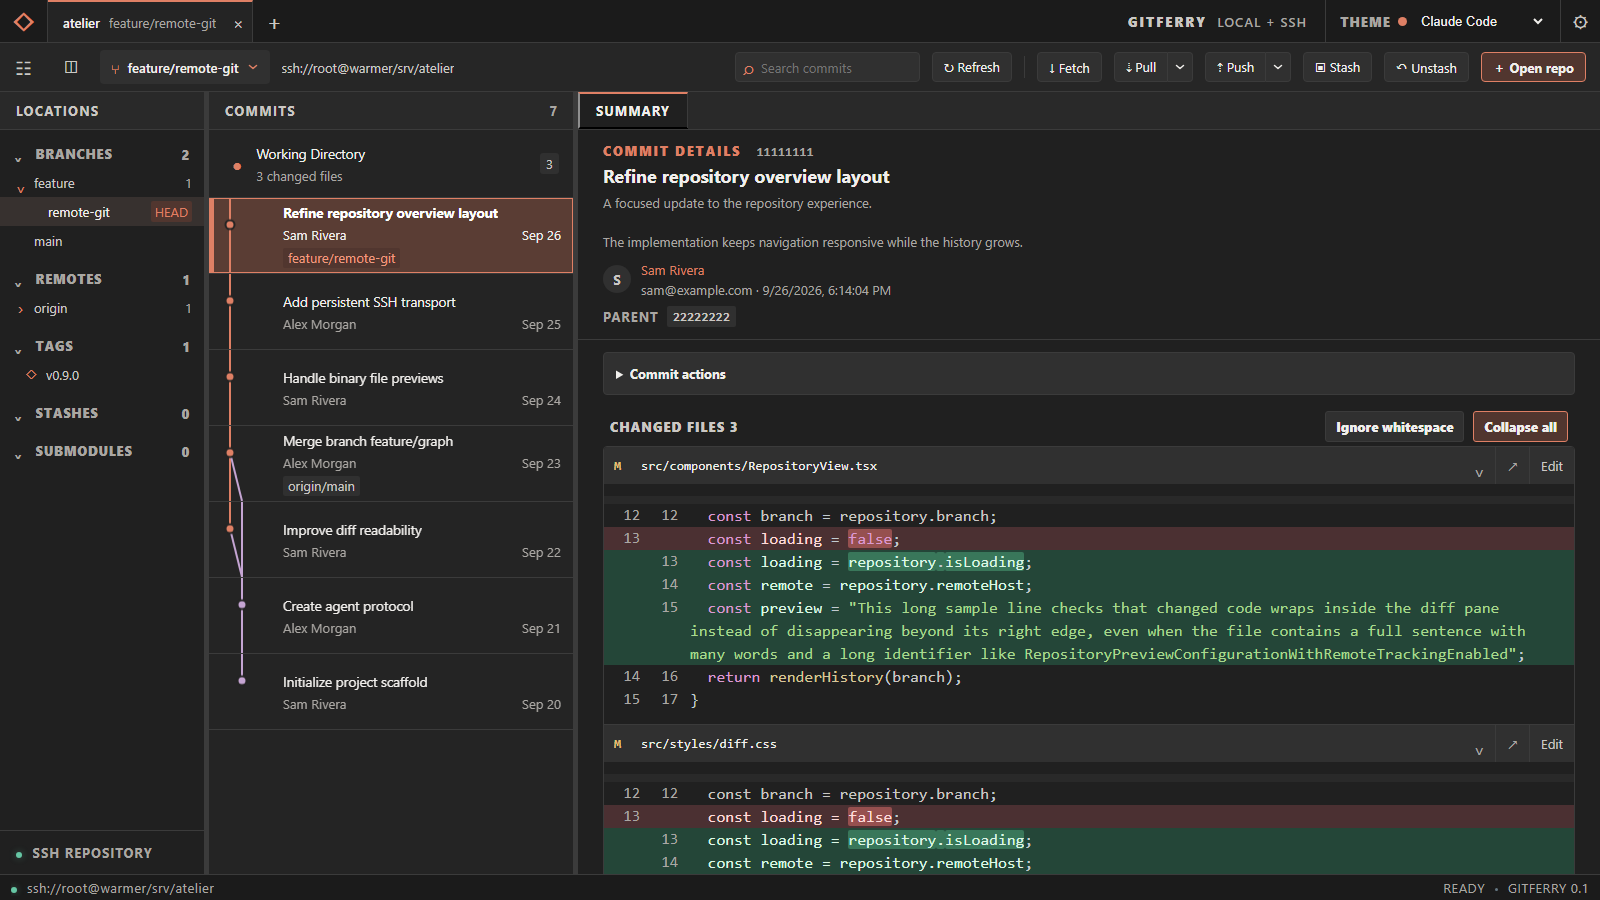
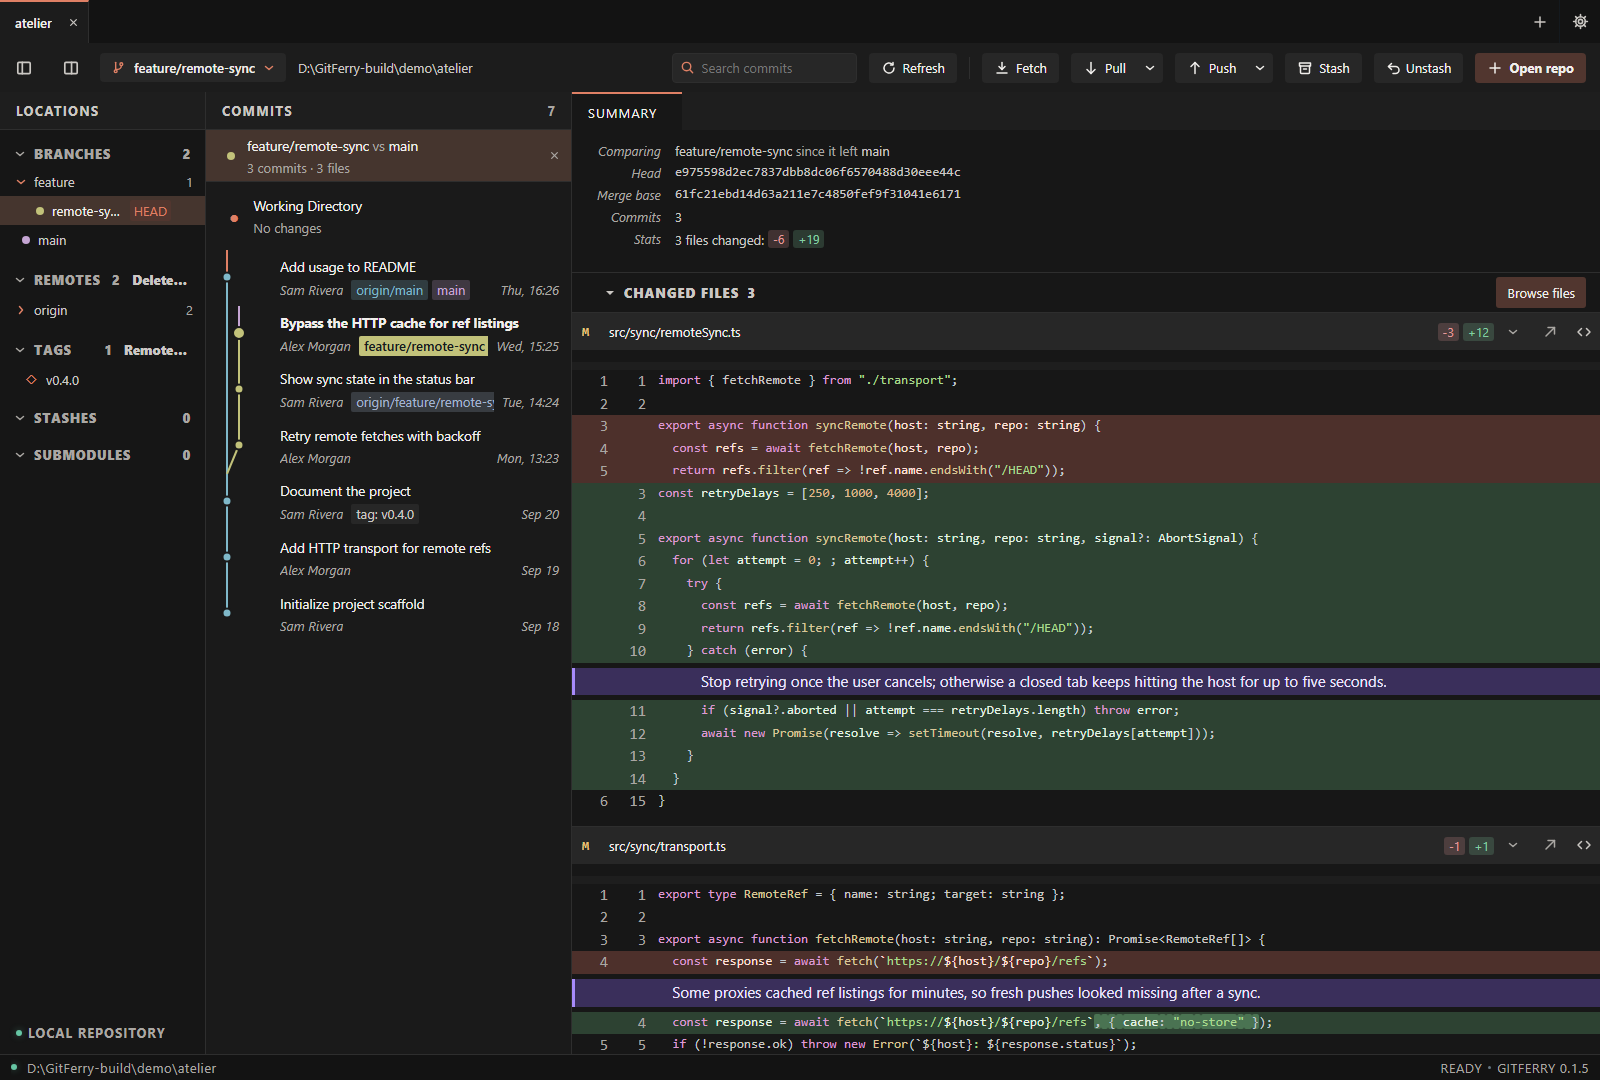
Describe AI change notes in the README and refresh the screenshot

diff --git a/README.md b/README.md
@@ -1,10 +1,12 @@
 # GitFerry
 
-GitFerry is a desktop Git client for local working trees and Git repositories on SSH hosts. It uses Tauri 2, SolidJS, and a small Rust agent that runs Git beside the repository.
+GitFerry is a desktop Git client inspired by Sublime Merge. It adds features such as comparing a branch's changes with master, working with repositories on remote hosts over SSH, and AI commentary on changes.
 
-![GitFerry showing its commit graph, branch sidebar, and inline diff in the Claude Code theme](docs/images/gitferry-preview.png)
+It works with local working trees and Git repositories on SSH hosts, and uses Tauri 2, SolidJS, and a small Rust agent that runs Git beside the repository.
 
-*GitFerry with a demo repository, shown in the Claude Code theme.*
+![GitFerry comparing a feature branch with main, with AI change notes above the code they explain, in the Claude Code theme](docs/images/gitferry-preview.png)
+
+*A feature branch compared with main; the purple rows are AI change notes. Demo repository, Claude Code theme.*
 
 ## Run locally
 
@@ -33,6 +35,24 @@ Open a local folder, or enter an SSH host and absolute repository path in the Op
 - Larger repository labels and a saved theme picker in the top bar: Antigravity Dark, VS Code Dark, Sublime Merge, and Claude Code.
 - Filesystem change watching with a slower polling fallback where watching is unavailable; full refresh on focus or Ctrl+R. Ctrl+O opens a repository.
 - Live fetch/pull/push progress and cancellation. SSH tabs use separate read, action, watch, and cancel sessions.
+- Compare a branch with main (or master, develop, trunk) from its branch menu: the commits and combined diff since it left the base branch. The comparison follows both branches as they move.
+- AI change notes shown above the diff lines they explain (see below).
+
+## AI change notes
+
+AI coding agents can explain why they changed something, and GitFerry shows each explanation directly above the code it describes in working-tree, staged, and branch-comparison diffs.
+
+Notes live in `.gitferry/notes.jsonl` at the repository root, one JSON object per line:
+
+```json
+{"id":"retry-abort","file":"src/sync/remoteSync.ts","quote":"if (signal?.aborted || attempt === retryDelays.length) throw error;","note":"Stop retrying once the user cancels; otherwise a closed tab keeps hitting the host."}
+```
+
+- `quote` is verbatim code from one line of the change, so a note follows its code when lines shift. An added line wins over a deleted one, which wins over context. Notes whose quote is no longer in the diff are hidden.
+- A later line with the same `id` replaces the note; `{"id":"...","deleted":true}` removes it.
+- GitFerry rereads the file every few seconds while focused. Keep `.gitferry/` out of commits, for example in `.git/info/exclude` or your global Git ignore file.
+
+The agent writes notes only when asked. [docs/skills/change-notes/SKILL.md](docs/skills/change-notes/SKILL.md) is the prompt used with Claude Code: copy it to `~/.claude/skills/change-notes/SKILL.md` and run `/change-notes` after a task. For Codex, copy it to `~/.codex/skills/change-notes/SKILL.md` and invoke `$change-notes`.
 
 ## Build and test
 

diff --git a/docs/skills/change-notes/SKILL.md b/docs/skills/change-notes/SKILL.md
@@ -1,0 +1,23 @@
+---
+name: change-notes
+description: Write GitFerry change notes (.gitferry/notes.jsonl) explaining important code changes. Use ONLY when the user explicitly invokes /change-notes or asks for change notes.
+disable-model-invocation: true
+---
+
+Explain the important changes of this task in `.gitferry/notes.jsonl` at the repo root (create it if missing). The GitFerry app shows each note next to the diff hunk it describes. Never put these notes in source files.
+
+Write a note ONLY where a reviewer would likely ask "why?":
+- behavior change, or a bug fix's root cause
+- non-obvious design decision or tradeoff
+- workaround, or handling of ordering/race/edge cases
+- security or data-integrity implication
+- code that looks wrong or unnecessary but is intentional
+
+Do NOT note: renames, formatting, imports, types, simple refactors, tests, obvious code, or anything the code already makes clear. Many changes need no note; a typical task gets 0–3. When unsure, skip.
+
+Format: append one JSON object per line. Never edit or rewrite existing lines:
+{"id":"<short-kebab-slug>","file":"<repo-relative path, forward slashes>","quote":"<distinctive code copied verbatim from ONE line of the new code>","note":"<why, not what; 1 sentence, max 25 words>"}
+
+- quote: part of a single line you added or changed, unique in the file (never `}`, `return;`, `throw error;`). For a pure deletion, quote a deleted line.
+- Write notes after the code is final, so quotes match the finished code.
+- Before editing a file, grep the notes file for it. If you change code covered by a note, append a line with the same id and updated fields, or {"id":"<id>","deleted":true} if it no longer applies.
